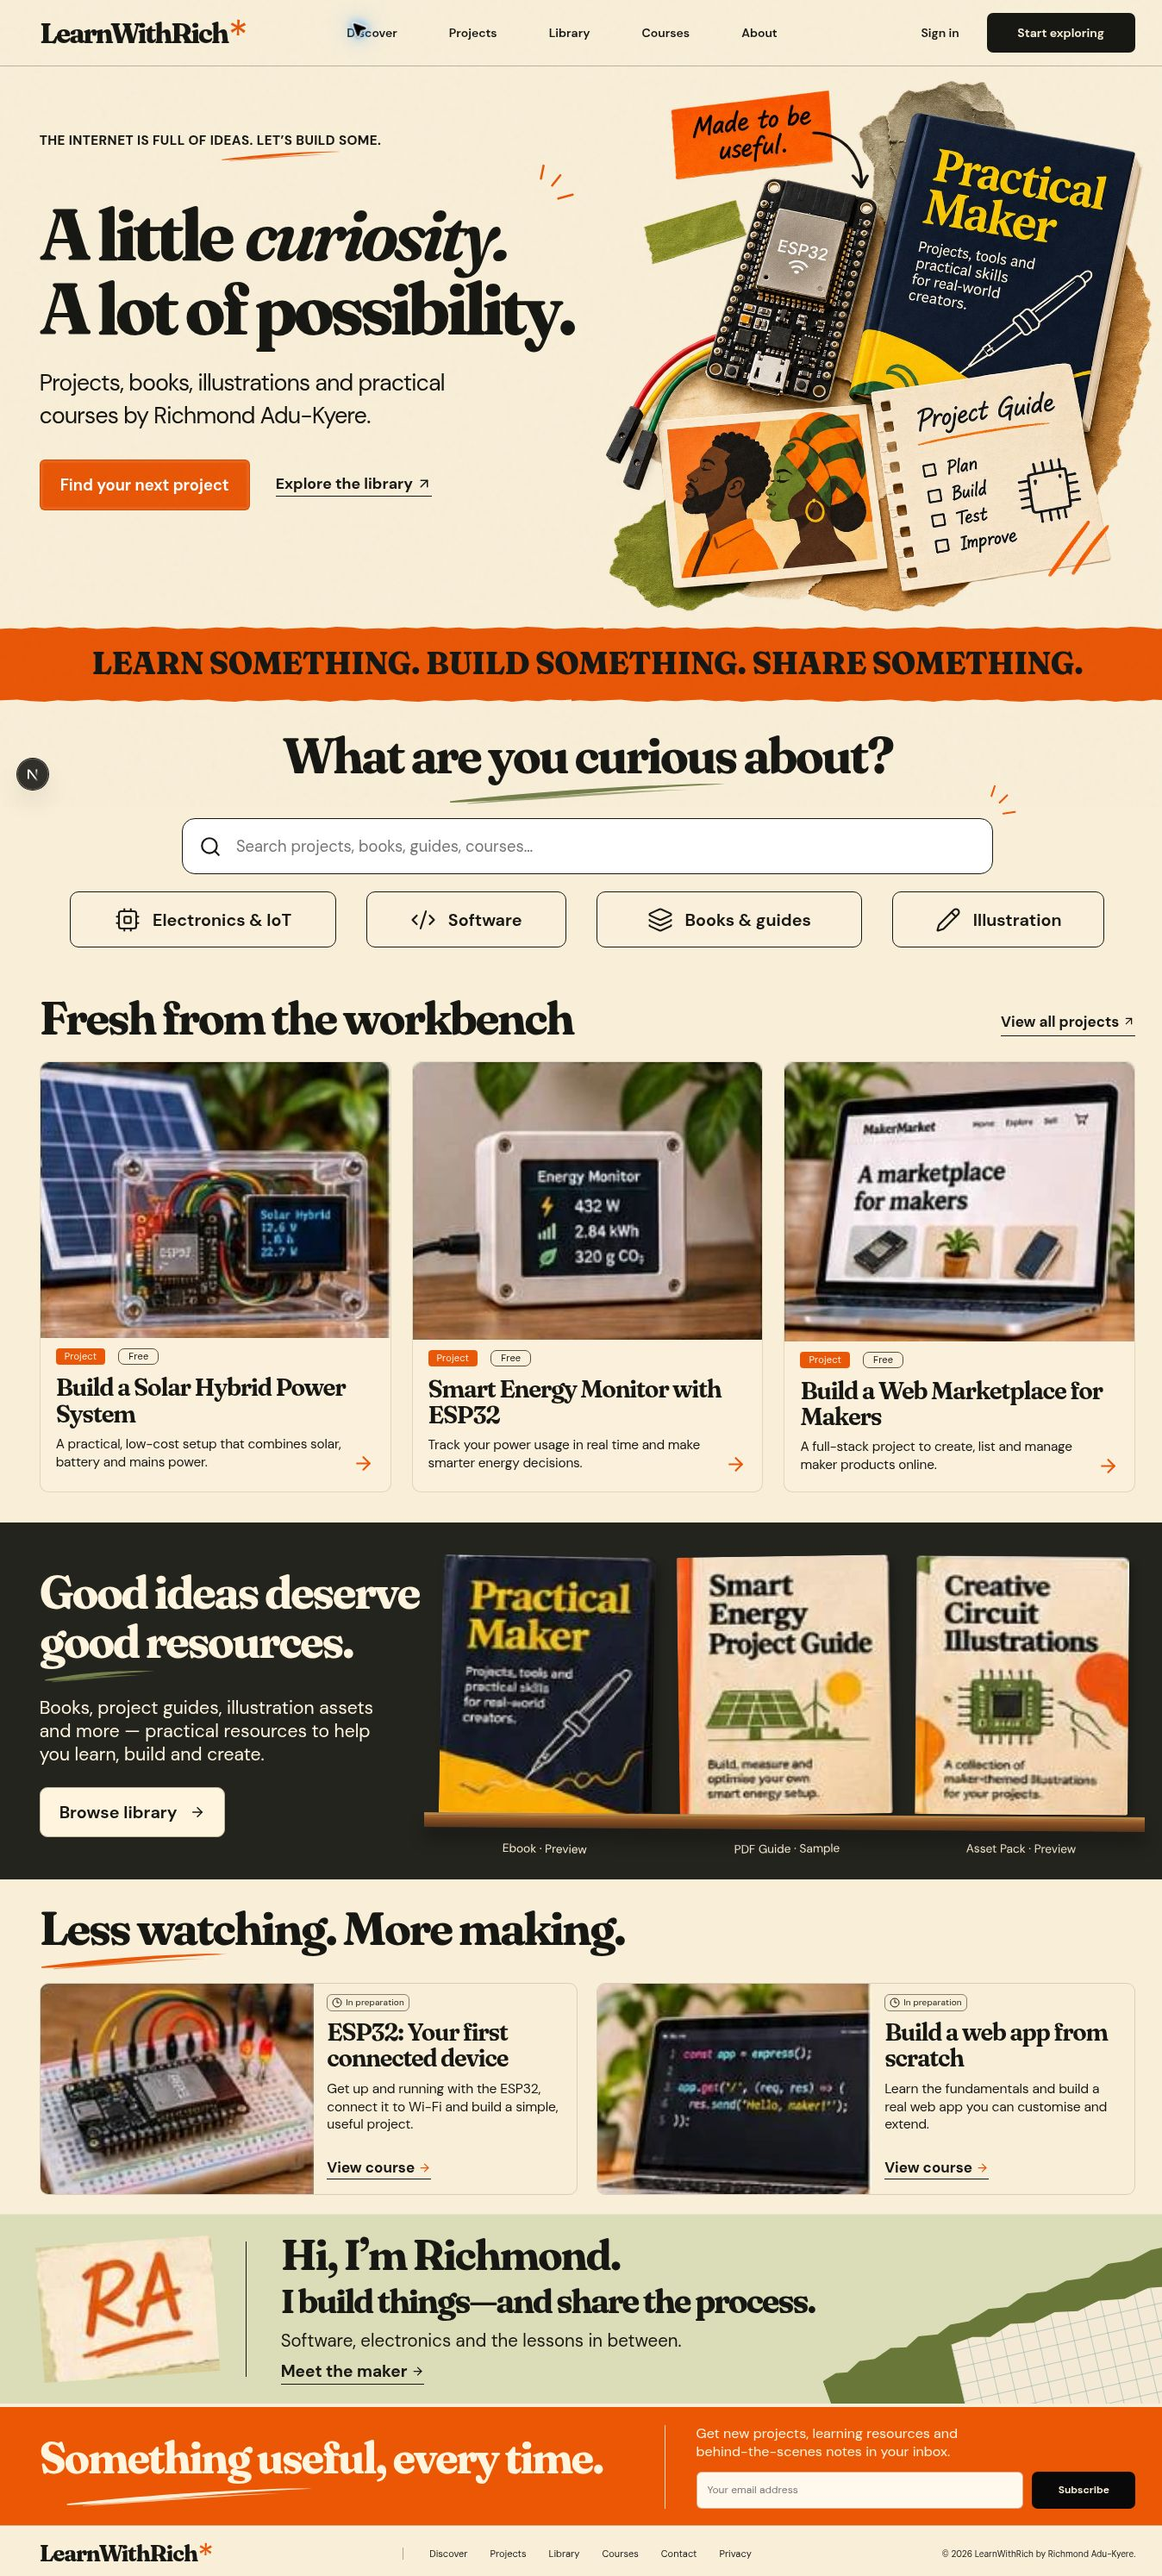
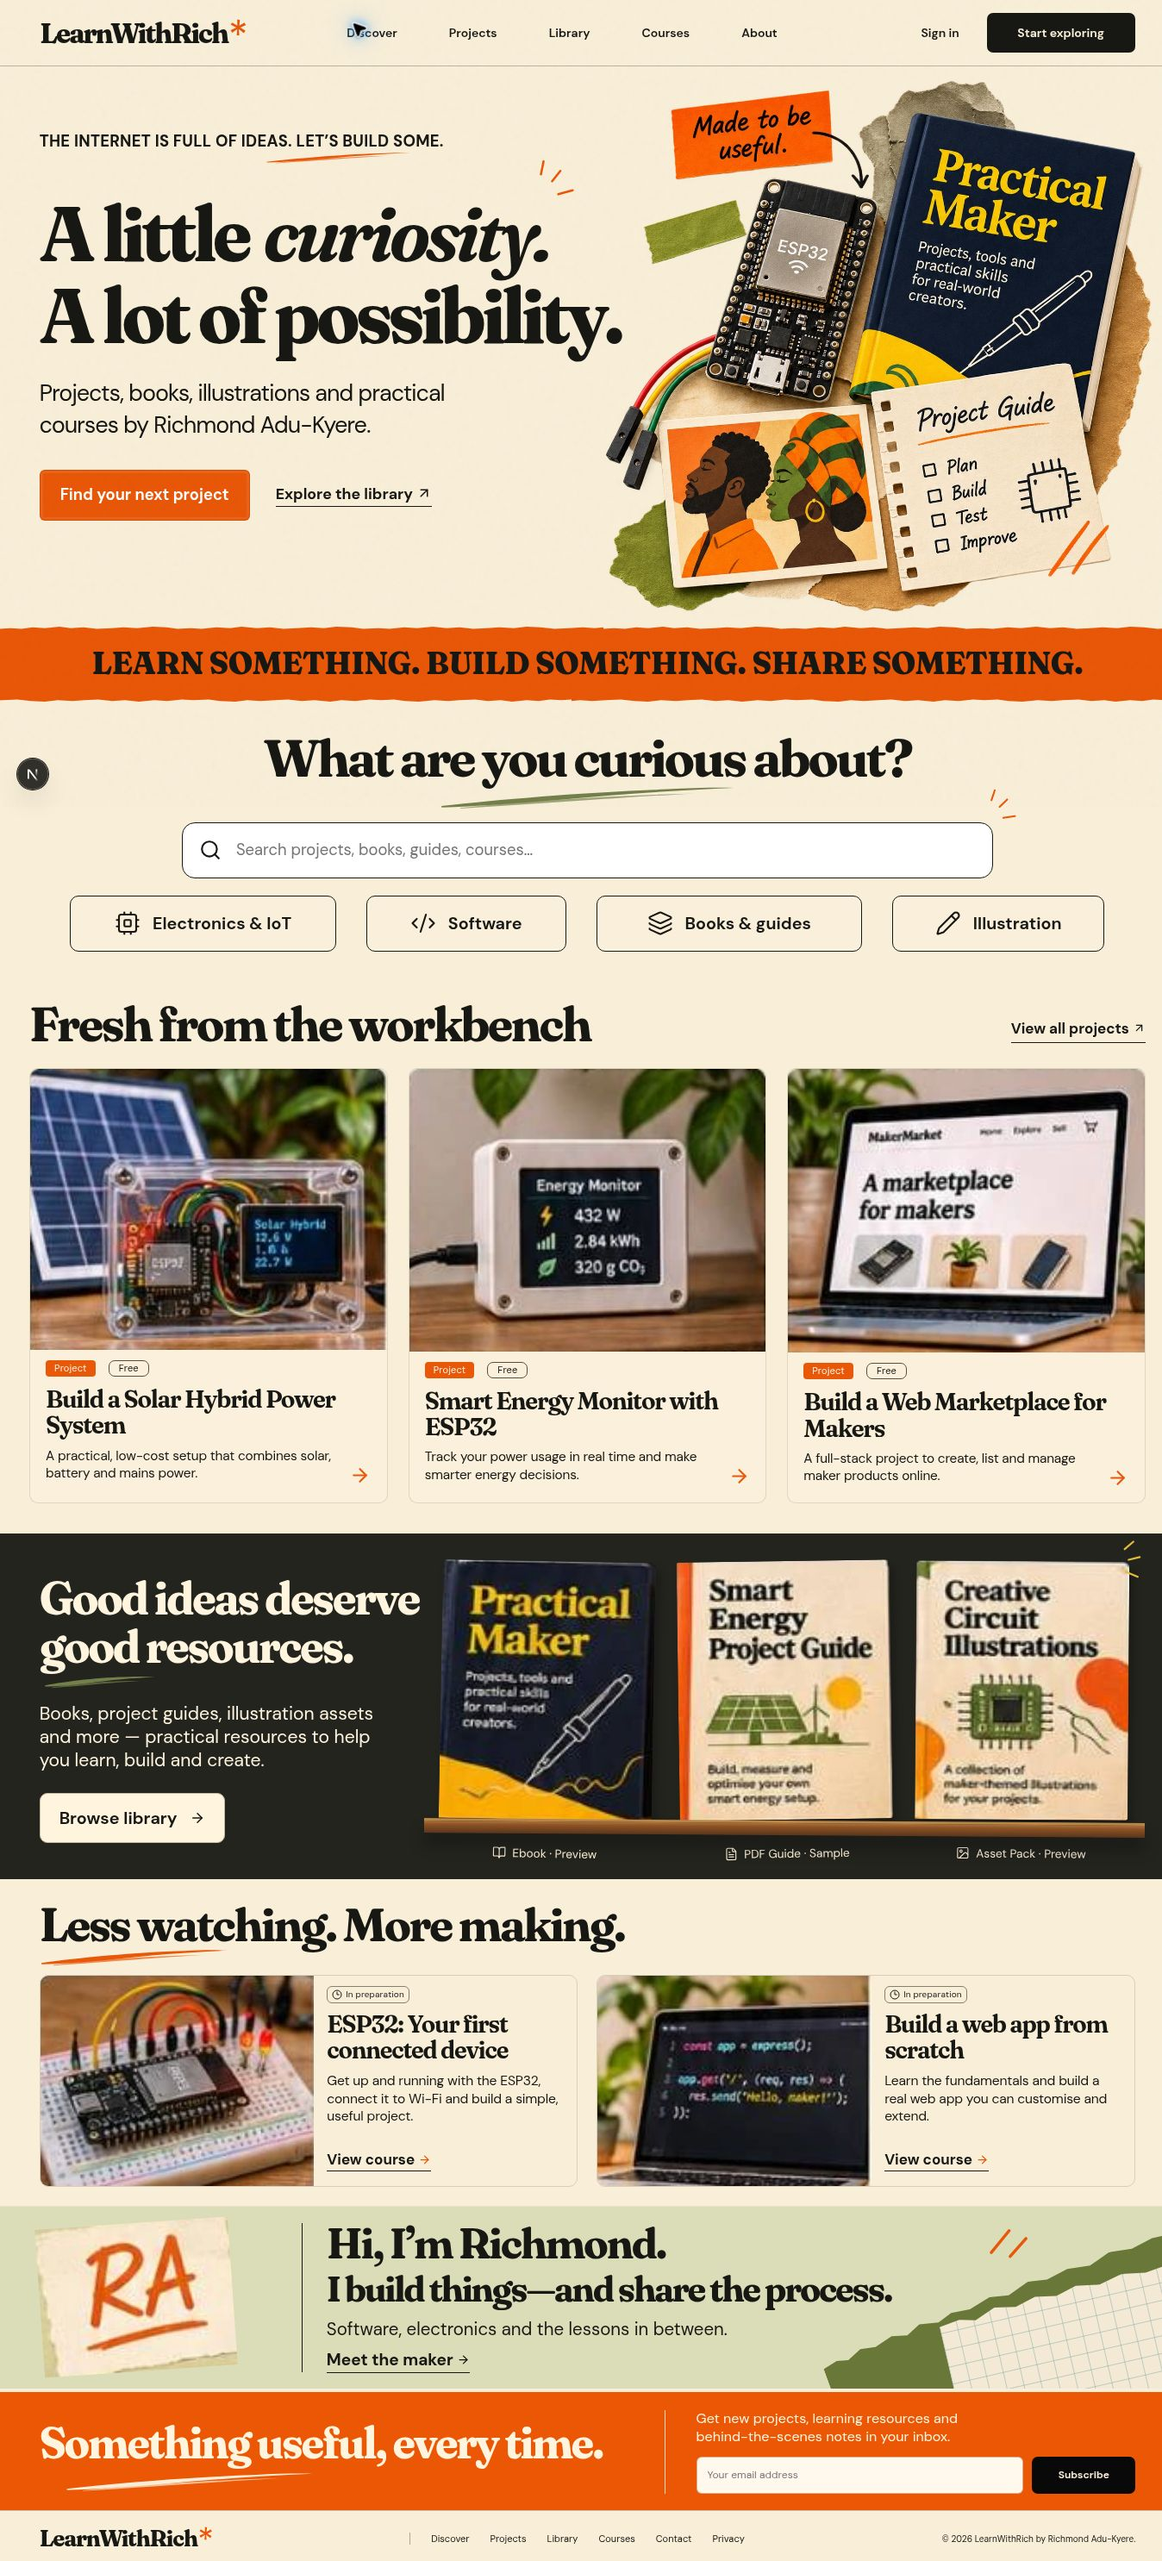
Complete final reference alignment and missing homepage details

diff --git a/app/page.tsx b/app/page.tsx
@@ -1,5 +1,5 @@
 import Link from 'next/link';
-import { ArrowRight, ArrowUpRight, Cpu, Code2, Layers, Pencil, Clock3 } from 'lucide-react';
+import { ArrowRight, ArrowUpRight, Cpu, Code2, Layers, Pencil, Clock3, BookOpen, FileText, Image as ImageIcon } from 'lucide-react';
 import { ReferenceArt } from '@/components/reference-art';
 import { DrawnUnderline, AccentRays } from '@/components/decorative-marks';
 import { SearchForm, Newsletter } from '@/components/site-shell';
@@ -9,9 +9,9 @@ const projects = [
  {slug:'maker-marketplace',art:'web' as const,title:'Build a Web Marketplace for Makers',description:'A full-stack project to create, list and manage maker products online.'},
 ];
 const books = [
- {slug:'practical-maker',art:'book' as const,label:'Ebook · Preview'},
- {slug:'smart-energy-project-guide',art:'guide' as const,label:'PDF Guide · Sample'},
- {slug:'creative-circuit-illustrations',art:'illustration' as const,label:'Asset Pack · Preview'},
+ {slug:'practical-maker',art:'book' as const,label:'Ebook · Preview', icon:BookOpen},
+ {slug:'smart-energy-project-guide',art:'guide' as const,label:'PDF Guide · Sample', icon:FileText},
+ {slug:'creative-circuit-illustrations',art:'illustration' as const,label:'Asset Pack · Preview', icon:ImageIcon},
 ];
 const courses = [
  {slug:'esp32-first-connected-device',art:'esp' as const,title:'ESP32: Your first connected device',description:'Get up and running with the ESP32, connect it to Wi-Fi and build a simple, useful project.'},
@@ -22,6 +22,6 @@ export default function Home(){return <div className="reference-home">
 <div className="ref-manifesto">LEARN SOMETHING. BUILD SOMETHING. SHARE SOMETHING.</div>
 <section className="ref-discovery ref-container"><h2>What are you curious about?<DrawnUnderline className="olive-scribble"/></h2><div className="ref-search-wrap"><SearchForm/><AccentRays className="search-rays"/></div><div className="ref-topic-links">{[[Cpu,'Electronics & IoT'],[Code2,'Software'],[Layers,'Books & guides'],[Pencil,'Illustration']].map(([Icon,label])=>{const I=Icon as typeof Cpu;return <Link key={String(label)} href={`/resources?topic=${encodeURIComponent(String(label))}`}><I size={25}/>{String(label)}</Link>})}</div></section>
 <section className="ref-projects ref-container"><div className="ref-section-heading"><h2>Fresh from the workbench</h2><Link href="/resources?type=Project" className="text-link">View all projects <ArrowUpRight size={15}/></Link></div><div className="ref-project-grid">{projects.map(p=><article className="ref-project-card" key={p.slug}><Link href={`/resources/${p.slug}`} aria-label={p.title}><ReferenceArt kind={p.art}/></Link><div className="ref-project-info"><div className="ref-project-tags"><span>Project</span><span>Free</span></div><h3><Link href={`/resources/${p.slug}`}>{p.title}</Link></h3><p>{p.description}</p><Link className="ref-card-arrow" href={`/resources/${p.slug}`} aria-label={`Explore ${p.title}`}><ArrowRight size={25}/></Link></div></article>)}</div></section>
-<section className="ref-library"><div className="ref-container ref-library-inner"><div className="ref-library-copy"><h2>Good ideas deserve<br/>good resources.<DrawnUnderline className="olive-scribble"/></h2><p>Books, project guides, illustration assets<br className="ref-desktop-break"/> and more — practical resources to help<br className="ref-desktop-break"/> you learn, build and create.</p><Link href="/resources?view=library" className="button button-cream">Browse library <ArrowRight size={18}/></Link></div><div className="ref-book-shelf">{books.map(b=><Link key={b.slug} href={`/resources/${b.slug}`} className="ref-shelf-book"><ReferenceArt kind={b.art}/><span>{b.label}</span></Link>)}<span className="ref-wood-shelf" aria-hidden="true"/></div></div></section>
+<section className="ref-library"><div className="ref-container ref-library-inner"><div className="ref-library-copy"><h2>Good ideas deserve<br/>good resources.<DrawnUnderline className="olive-scribble"/></h2><p>Books, project guides, illustration assets<br className="ref-desktop-break"/> and more — practical resources to help<br className="ref-desktop-break"/> you learn, build and create.</p><Link href="/resources?view=library" className="button button-cream">Browse library <ArrowRight size={18}/></Link></div><div className="ref-book-shelf">{books.map(b=><Link key={b.slug} href={`/resources/${b.slug}`} className="ref-shelf-book"><ReferenceArt kind={b.art}/><span><b.icon size={16} strokeWidth={1.7}/>{b.label}</span></Link>)}<span className="ref-wood-shelf" aria-hidden="true"/><AccentRays className="library-rays"/></div></div></section>
 <section className="ref-courses ref-container"><h2>Less watching. More making.<DrawnUnderline className="orange-scribble"/></h2><div className="ref-course-grid">{courses.map(c=><article className="ref-course-card" key={c.slug}><Link className="ref-course-image" href={`/resources/${c.slug}`} aria-label={c.title}><ReferenceArt kind={c.art}/></Link><div className="ref-course-info"><span className="ref-course-time"><Clock3 size={12}/> In preparation</span><h3><Link href={`/resources/${c.slug}`}>{c.title}</Link></h3><p>{c.description}</p><Link className="text-link" href={`/resources/${c.slug}`}>View course <ArrowRight size={15}/></Link></div></article>)}</div></section>
-<section className="ref-about"><div className="ref-container ref-about-inner"><div className="ref-stamp"><ReferenceArt kind="stamp"/></div><div className="ref-about-copy"><h2>Hi, I’m Richmond.<br/><span>I build things—and share the process.</span></h2><p>Software, electronics and the lessons in between.</p><Link href="/about" className="text-link">Meet the maker <ArrowRight size={15}/></Link></div><div className="ref-grid-paper" aria-hidden="true"/></div></section><Newsletter/></div>}
+<section className="ref-about"><div className="ref-container ref-about-inner"><div className="ref-stamp"><ReferenceArt kind="stamp"/></div><div className="ref-about-copy"><h2>Hi, I’m Richmond.<br/><span>I build things—and share the process.</span></h2><p>Software, electronics and the lessons in between.</p><Link href="/about" className="text-link">Meet the maker <ArrowRight size={15}/></Link></div><span className="about-ticks" aria-hidden="true"><svg viewBox="0 0 50 40" fill="none"><path d="M5 27 23 5M24 31 40 13" stroke="currentColor" strokeWidth="3" strokeLinecap="round"/></svg></span><div className="ref-grid-paper" aria-hidden="true"/></div></section><Newsletter/></div>}

diff --git a/app/final-polish.css b/app/final-polish.css
@@ -1,0 +1,95 @@
+/* Final visual alignment with the supplied 699 × 1536 homepage reference. */
+.ref-projects.ref-container { width: calc(100% - 5%); max-width: 1368px; }
+.ref-project-grid { gap: 24px; }
+.ref-shelf-book > span {
+  display: flex;
+  align-items: center;
+  justify-content: center;
+  gap: 7px;
+}
+.ref-shelf-book > span svg { width: 16px; height: 16px; flex-shrink: 0; }
+.drawn-rays.library-rays {
+  width: 44px;
+  height: 44px;
+  color: #e3bd39;
+  top: -10px;
+  right: -17px;
+  transform: rotate(43deg);
+  z-index: 4;
+}
+.about-ticks {
+  width: 60px;
+  height: 46px;
+  position: absolute;
+  right: 9%;
+  top: 22px;
+  z-index: 3;
+  color: var(--orange);
+  pointer-events: none;
+}
+.about-ticks svg { width: 100%; height: 100%; }
+.ref-library { padding-top: 22px; padding-bottom: 17px; }
+.ref-courses { padding-top: 24px; }
+.ref-courses > h2 { margin-bottom: 30px; }
+.ref-about-inner { gap: 28px; padding-block: 18px; }
+.ref-stamp { width: 24%; max-width: none; padding-right: 80px; }
+.ref-about-copy h2 span { font-size: clamp(23px, 3vw, 43px); }
+.ref-grid-paper { width: 24%; right: -7%; }
+/* Keep the search action keyboard-visible, while retaining the quiet reference design. */
+.ref-search-wrap .search-form button { opacity: 1; color: var(--ink); background: transparent; }
+.ref-search-wrap .search-form button svg { opacity: 0; }
+.ref-search-wrap .search-form button:focus-visible svg,
+.ref-search-wrap .search-form button:hover svg { opacity: 1; }
+.ref-search-wrap .search-form input { padding-right: 32px; }
+@media (min-width: 1101px) {
+  .ref-eyebrow { font-size: clamp(14px, 1.35vw, 19.5px); margin-bottom: clamp(36px, 3.55vw, 51px); letter-spacing: .015em; }
+  .ref-eyebrow .drawn-mark { width: 170px; left: 56%; }
+  .ref-hero-copy h1 { font-size: clamp(70px, 6.55vw, 94px); line-height: 1.065; letter-spacing: -.05em; }
+  .ref-discovery h2 { font-size: clamp(48px, 4.5vw, 65px); }
+  .ref-section-heading h2 { font-size: clamp(43px, 4.15vw, 60px); }
+  .ref-footer-inner { gap: 24px; }
+  .ref-footer-inner > nav { gap: 24px; padding-left: 24px; }
+}
+/* The narrow desktop/tablet layout must remain readable rather than shrinking all type. */
+@media (min-width: 581px) and (max-width: 900px) {
+  .ref-eyebrow { font-size: 9px; max-width: 95%; }
+  .ref-project-info h3 { font-size: 18px; }
+  .ref-project-info p { font-size: 11px; }
+  .ref-project-info { padding-bottom: 32px; }
+  .ref-project-tags { font-size: 8px; }
+  .ref-library-copy p { font-size: 12px; }
+  .ref-shelf-book > span { font-size: 8px; gap: 4px; }
+  .ref-shelf-book > span svg { width: 11px; height: 11px; }
+  .ref-course-info h3 { font-size: 18px; }
+  .ref-course-info p { font-size: 11px; }
+  .ref-course-info .text-link { font-size: 11px; }
+  .ref-course-time { font-size: 8px; }
+  .ref-course-image { min-height: 195px; }
+  .ref-stamp { padding-right: 28px; width: 23%; }
+  .ref-about-copy h2 span { white-space: normal; }
+  .ref-newsletter-form > p { font-size: 11px; }
+  .ref-newsletter-form input, .ref-newsletter-form .button { font-size: 10px; min-height: 34px; }
+  .ref-footer-inner { flex-wrap: wrap; padding-block: 15px; gap: 16px; }
+  .ref-footer-inner > nav { margin-left: auto; font-size: 10px; }
+  .ref-footer-inner > span { width: 100%; text-align: right; font-size: 9px; }
+}
+@media (min-width: 901px) and (max-width: 1100px) {
+  .ref-stamp { padding-right: 48px; }
+}
+@media (max-width: 580px) {
+  .ref-projects.ref-container { width: calc(100% - 40px); }
+  .ref-project-grid { gap: 16px; }
+  .ref-library { padding-top: 28px; padding-bottom: 25px; }
+  .ref-courses { padding-top: 30px; }
+  .ref-courses > h2 { margin-bottom: 27px; }
+  .ref-stamp { width: 25%; max-width: none; padding-right: 14px; }
+  .ref-about-inner { gap: 20px; padding-block: 26px; }
+  .ref-about-copy h2 span { font-size: 22px; }
+  .ref-grid-paper { width: 40%; right: -15%; }
+  .about-ticks { width: 34px; height: 29px; right: 1%; top: 12px; opacity: .75; }
+  .drawn-rays.library-rays { width: 32px; height: 32px; right: -9px; top: -8px; }
+  .ref-shelf-book > span { font-size: 7px; gap: 4px; }
+  .ref-shelf-book > span svg { width: 11px; height: 11px; }
+  .ref-search-wrap .search-form button { width: 42px; }
+  .ref-search-wrap .search-form button svg { width: 17px; }
+}

diff --git a/app/layout.tsx b/app/layout.tsx
@@ -2,5 +2,6 @@ import type { Metadata } from 'next';
 import { Header, Footer } from '@/components/site-shell';
 import './globals.css';
 import './typography.css';
+import './final-polish.css';
 export const metadata: Metadata = { title: { default: 'LearnWithRich — Learn it. Build it. Make it real.', template: '%s | LearnWithRich' }, description: 'Practical projects, useful resources, books, illustrations and courses by Richmond Adu-Kyere. A little curiosity. A lot of possibility.', icons: { icon: '/icon.svg' } };
 export default function RootLayout({children}:{children:React.ReactNode}){return <html lang="en"><body><a href="#main-content" className="skip-link">Skip to content</a><Header/><main id="main-content">{children}</main><Footer/></body></html>}

diff --git a/README.md b/README.md
@@ -48,3 +48,5 @@ Reusable decorative SVGs in `components/decorative-marks.tsx` provide tapered un
 The homepage follows the supplied maker-journal reference: two-line hero, transparent electronics/book collage, torn orange statement strip, bordered project cards, dark resource shelf, course cards, RA introduction and compact footer. `components/reference-art.tsx` uses CSS background windows to display only the artwork regions of the provided reference; text, navigation, search and actions are native HTML. The hero collage is a transparent AI-generated extraction/enhancement of the reference. The homepage switches to a stacked responsive layout below 580px.
 
 The header sign-in link opens an honest account-availability page. Newsletter submission displays a not-connected message and does not store or transmit email. See `/privacy` for the current preview behaviour.
+
+The final homepage alignment pass adjusts hero/discovery type scale, project grid gutters, lower-section spacing and the RA divider position. It restores resource-format icons, the yellow book-shelf accent and orange introduction strokes. Tablet labels have minimum readable sizes, and the search action becomes visible on keyboard focus. Catalog and course availability labels remain truthful to the current preview content.
